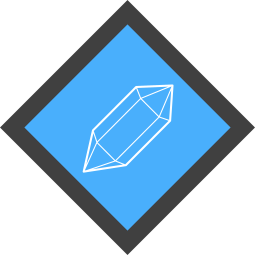
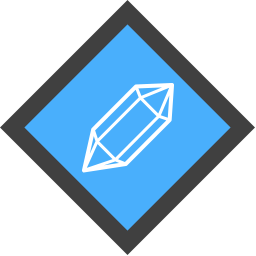
Refined inventory image, (should add license)

Changed region(s): [[0.3125, 0.3125, 0.6875, 0.6875]]

diff --git a/app/components/ElHud.vue b/app/components/ElHud.vue
@@ -46,7 +46,7 @@
 		position: fixed;
 		top: 50%;
 		width: 80px;
-		height: 200px;
+		height: 260px;
 		right: 0;
 		transform: translateY(-50%);
 		padding: 5px;
@@ -63,12 +63,12 @@
 			align-items: baseline;
 
 			width: 100%;
-			height: 60px;
+			height: 100px;
 
 			.inventory-image {
-				width: 50px;
-				height: 50px;
-				margin-right: -10px;
+				width: 80px;
+				height: 80px;
+				margin-right: -30px;
 			}
 
 			.inventory-amount {

diff --git a/README.md b/README.md
@@ -2,7 +2,7 @@
 
 A simple web-based multiplayer RTS game.
 
-## Implementations (47%, 17/36)
+## Implementations (50%, 18/36)
  - Modeling Structures & Entities
  	- Structures
  		- [x] Modeling Resources
